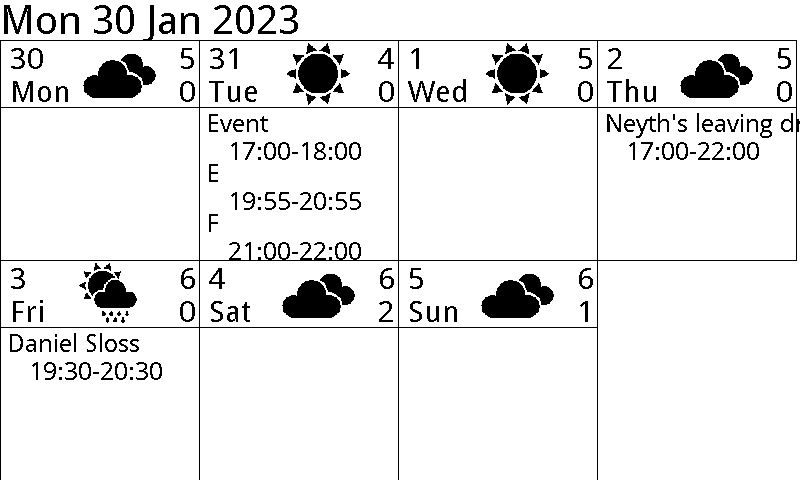
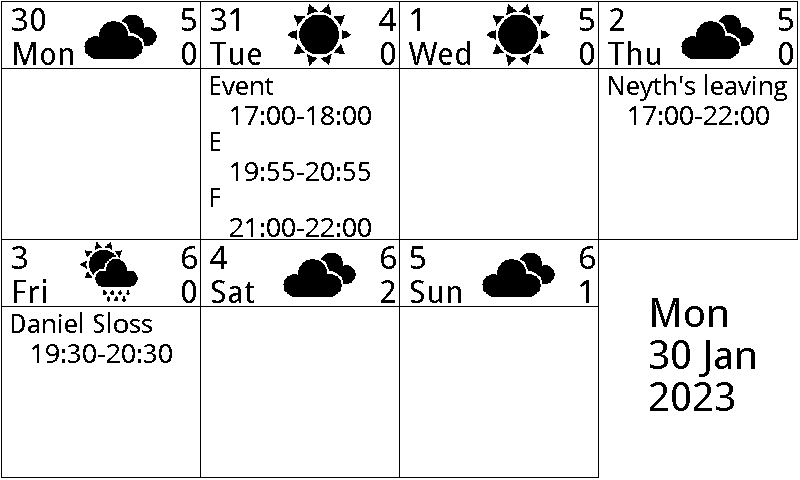
font size update

diff --git a/piCal/get_image.py b/piCal/get_image.py
@@ -33,19 +33,19 @@ class CalDraw():
         self.height = 480
 
         self.day_w = 199
-        self.day_h = 220
-        self.cal_x = 0
-        self.cal_y = 40
+        self.day_h = 238
+        self.cal_x = 1
+        self.cal_y = 1
         self.title_h = 67
-        self.event_h = 25
+        self.event_h = 28
 
         big_size = 40
         self.big_font = ImageFont.truetype(os.path.join(picdir, 'Font.ttc'), big_size)
 
-        day_size = 30
+        day_size = 32
         self.day_font = ImageFont.truetype(os.path.join(picdir, 'Font.ttc'), day_size)
 
-        event_size = 25
+        event_size = 27
         self.event_font = ImageFont.truetype(os.path.join(picdir, 'Font.ttc'), event_size)
 
         self.image_black = Image.new('1', (self.width, self.height), 255)  # 255: clear the frame
@@ -91,7 +91,7 @@ class CalDraw():
                 if not holidays:
 
                     draw_black.text((pos_x, pos_y),
-                                ' {0}\n    {1}:{2}-{3}:{4}'.format(event['name'][:21], self.format_time(start.hour), self.format_time(start.minute), self.format_time(end.hour),self.format_time(end.minute)),
+                                ' {0}\n    {1}:{2}-{3}:{4}'.format(event['name'][:16], self.format_time(start.hour), self.format_time(start.minute), self.format_time(end.hour),self.format_time(end.minute)),
                                 font=self.event_font)
                     event_counts[diff] += 2
                 else:
@@ -113,7 +113,6 @@ class CalDraw():
 
         draw_black = ImageDraw.Draw(self.image_black)
 
-        draw_black.text((0, -4), '{} {} {} {}'.format(weekdays[now.weekday()], now.day, months[now.month-1], now.year), font=self.big_font)
 
         linewidth = 1
         for i in range(7):
@@ -135,6 +134,10 @@ class CalDraw():
 
                 draw_black.text((self.cal_x+(i-4)*self.day_w+2, self.cal_y + self.day_h),' {1}\n {0}'.format(day, new_date.day),font = self.day_font)
 
+        i = 7
+        draw_black.text((self.cal_x+(i-4)*self.day_w+50, self.cal_y + self.day_h + 50),
+                        '{}\n{} {}\n{}'.format(weekdays[now.weekday()], now.day, months[now.month - 1], now.year),
+                        font=self.big_font)
 
         event_counts = [0]*7
         event_counts = self.add_events(holidays, event_counts, holidays=True)
